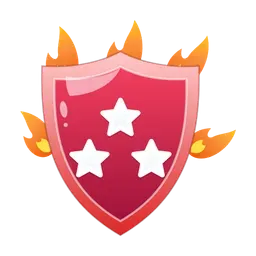
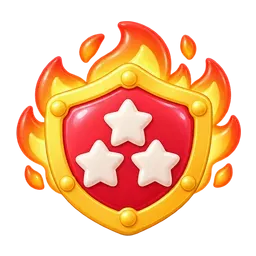
새 그림 연결: 칭호 메달 65개 · 가위바위보 팔 8장 · 몬스터 화면 아이콘 다시 그림 (v13.97.0)
- 칭호마다 자기 메달 그림(256px + 작은 그림 96px), 칭호 도감 그림 3개
- 가위바위보 팔 그림 8장, ARM_ART 켬(한 쪽 4장은 같은 창으로 잘라 팔이 안 움직임)
- 10-10 몬스터 화면 아이콘을 GPT 그림으로 교체(제가 그린 SVG 임시 그림 대체)
- fit-assets.mjs --fit-each / --union
- 검사 3개 추가, 예전 검사 3개를 새 상태에 맞춤 (release-check 1016/1016)

diff --git a/public/modules/emblems.js b/public/modules/emblems.js
@@ -70,9 +70,22 @@ const LOCK = '<svg viewBox="0 0 24 24" fill="none" stroke="currentColor" stroke-
 // V13.96 drawn title medals (asset list 11: /assets/titles/<key>.webp, 256px, and <key>-s.webp,
 // 96px, for the 34px size; 58px and up stay sharp on 3× phones with the big one). A title
 // listed here shows its picture; the rest keep the drawn
-// SVG medal, so a missing file never shows as a broken image. Empty until the sheets 11-1 …
-// 11-17 are cut.
-export const TITLE_ART = new Set([]);
+// SVG medal, so a missing file never shows as a broken image. V13.97: all 65, cut from the
+// sheets 11-1 … 11-16 (each medal fitted on its own, so a medal of one tier is the same size on
+// every sheet).
+export const TITLE_ART = new Set([
+  'rookie', 'focus', 'words100', 'streak3', 'perfect1', 'win1',
+  'words500', 'streak', 'perfect5', 'combo', 'pets4', 'win10',
+  'yacha3', 'words1000', 'streak14', 'perfect20', 'combo20', 'master',
+  'win50', 'yachaking', 'comeback', 'flawless', 'words3000', 'streak30',
+  'legend', 'pets8', 'win100', 'diamond', 'champion', 'weekly1',
+  'weekly2', 'weekly3', 'leagueking', 'pets2', 'study10', 'attend7',
+  'rps10', 'rpsjack', 'rpsgod', 'bot1', 'gift1', 'level10',
+  'level30', 'level40', 'level50', 'level60', 'study50', 'attend30',
+  'monster1', 'monster10', 'monsterhard', 'monsterlord', 'bothunter', 'skill10',
+  'exam3', 'words2000', 'study150', 'attend100', 'combo30', 'skill50',
+  'perfect50', 'yacha10', 'g_lucky', 'g_golden', 'g_god'
+]);
 export function titleEmblem(key, opts = {}) {
   const k = TITLES[key] ? key : 'rookie', t = TITLES[k];
   const locked = !!(opts.locked || opts.preview), size = opts.size || 'md';
@@ -115,6 +128,7 @@ export const ART_READY = new Set([
   'pet-legend-locked', 'empty-records', 'study-vocab', 'study-grammar', 'exam-practice', 'exam-test',
   'study-daily', 'flash-deck', 'flash-done', 'word-empty', 'badge-first100', 'badge-streak90',
   'badge-english100', 'badge-master', 'result-perfect', 'result-great', 'result-good', 'result-retry',
-  'me-petbook', 'pet-epic-locked', 'epic-egg', 'epic-badge'
+  'me-petbook', 'pet-epic-locked', 'epic-egg', 'epic-badge',
+  'titles-hero', 'title-equipped', 'title-new'
 ]);
 export const artOr = (key, fallback, cls = '') => ART_READY.has(key) ? uiArt(key, cls) : fallback;

diff --git a/public/modules/rps.js b/public/modules/rps.js
@@ -12,8 +12,8 @@
 // its fist, throws its hand, then reacts (gloats, gets dizzy, glitches at ×8, thinks on a tie).
 // V13.86 a comic panel: the screen splits along a lightning bolt (로보's half, my half) with a VS
 // burst in the middle, and two arms reach in from the screen edges, pump, and smash together.
-// Until the arm pictures are drawn (05-rps-arms.txt) the arms are drawn sleeves ending in the
-// hand medals; set ARM_ART once /assets/rps/arm-<robot|me>-<hand>.webp exist.
+// V13.97 the arm pictures (05-rps-arms, /assets/rps/arm-<robot|me>-<hand>.webp) are in; before
+// that the arms were drawn sleeves ending in the hand medals (ARM_ART = false still does that).
 import { api, esc, num, toast } from './ui.js';
 import { avatar } from './character.js';
 import { coin } from './emblems.js';
@@ -38,7 +38,7 @@ const SFX = {
 const ART = '/assets/rps/';
 const ROBOT_STILL = '/assets/pets/robot-3.webp';
 const ROBOT_POSES = ['ready', 'rock', 'scissors', 'paper', 'win', 'lose', 'shock', 'think'];
-const ARM_ART = false;
+const ARM_ART = true;
 const handArt = (hand, px = 256) => `<img src="${ART}hand-${hand}.webp" alt="" width="${px}" height="${px}" decoding="async" draggable="false">`;
 const ladder = (wins, bet) => Array.from({ length: RPS_MAX_WINS }, (_, i) => `<span class="rps-step${wins > i ? ' on' : ''}${wins === i ? ' next' : ''}"><b>×${2 ** (i + 1)}</b><small>${num(bet * 2 ** (i + 1))}</small></span>`).join('');
 const medal = (hand, cls = '') => `<span class="rps-medal art${hand ? ` h-${hand}` : ' idle'}${cls ? ` ${cls}` : ''}">${handArt(hand || 'rock')}</span>`;

diff --git a/public/sw.js b/public/sw.js
@@ -7,7 +7,7 @@
 // switches to it (and reloads) only when no exam or practice is on screen.
 
 // BUILD:START (generated by server/build-assets.mjs, do not edit by hand)
-const ASSET_HASH = '25c2b81727f21af5';
+const ASSET_HASH = '7308dedef6f5277b';
 const PRECACHE = ["/app.bundle.css","/app.js","/boot-guard.js","/icon.svg","/inapp.js","/","/manifest.webmanifest","/modules/arcade.js","/modules/battle-bot.js","/modules/battle-engine.js","/modules/battle-questions.js","/modules/battle.js","/modules/bracket-tv.js","/modules/card-levelup.js","/modules/celebrate.js","/modules/character.js","/modules/class-tv.js","/modules/core.js","/modules/emblems.js","/modules/flashcards.js","/modules/league-ui.js","/modules/lucky.js","/modules/market.js","/modules/monsters.js","/modules/pet-moments.js","/modules/petbook.js","/modules/rewards.js","/modules/rps.js","/modules/sessions.js","/modules/stocks.js","/modules/student.js","/modules/teacher.js","/modules/titles-ui.js","/modules/titles.js","/modules/tournament-ui.js","/modules/ui.js","/practice-enhancements.js","/pwa.js","/student-enhancements.js","/sumus-logo-green.svg"];
 // BUILD:END
 

diff --git a/public/v1396.css b/public/v1396.css
@@ -10,7 +10,7 @@
 .tt-emblem.is-preview .tt-art{filter:saturate(.85) opacity(.92)}
 
 /* 칭호 도감 screen pictures (shown once they are drawn, see ART_READY). */
-.tt-page-head:has(.tt-head-art){position:relative;padding-right:96px}
-.tt-page-head .tt-head-art{position:absolute;right:-4px;top:-8px;width:96px;height:96px;filter:drop-shadow(0 6px 10px rgba(30,40,60,.18))}
+.tt-page-head:has(.tt-head-art){position:relative;padding-right:120px}
+.tt-page-head .tt-head-art{position:absolute;right:-6px;top:-4px;width:128px;height:128px;object-fit:contain;filter:drop-shadow(0 6px 10px rgba(30,40,60,.18))}
 .tt-tier-tag.equipped .tt-tag-art{width:15px;height:15px;margin:-3px 3px -3px -2px;vertical-align:middle}
 .tt-moment-kicker .tt-kicker-art{width:22px;height:22px;margin:-6px 5px -5px 0;vertical-align:middle}

diff --git a/public/index.html b/public/index.html
@@ -14,7 +14,7 @@
   <link rel="apple-touch-icon" href="/icons/apple-touch-icon-180.png">
   <link rel="icon" href="/icons/icon-192.png" type="image/png" sizes="192x192">
   <link rel="manifest" href="/manifest.webmanifest">
-  <link rel="stylesheet" href="/app.bundle.css?v=13.96.0">
+  <link rel="stylesheet" href="/app.bundle.css?v=13.97.0">
 </head>
 <body>
   <script src="/inapp.js"></script>
@@ -22,7 +22,7 @@
   <div id="toast" role="status" aria-live="polite"></div>
   <div id="modal-root"></div>
   <script src="/boot-guard.js"></script>
-  <script type="module" src="/app.js?v=13.96.0"></script>
+  <script type="module" src="/app.js?v=13.97.0"></script>
   <script type="module" src="/pwa.js"></script>
 </body>
 </html>

diff --git a/CHANGES_v13.97.0.md b/CHANGES_v13.97.0.md
@@ -1,0 +1,50 @@
+# SUMUS VOCA v13.97.0 변경 사항
+
+## 새 그림 연결 (GPT 시트 20장 → 그림 81개)
+
+Drive의 시트 10-10, 11-1 ~ 11-17, 05-1 · 05-2를 잘라 앱에 넣었어요.
+
+### 칭호 메달 65개 (11번)
+
+- 칭호마다 **자기 메달 그림**이 생겼어요. 지금까지는 등급마다 같은 메달에 아이콘만 돌려 썼어요.
+  - 칭호 도감, 새 칭호 창, 랭킹·야차전·도전장의 칭호 표시 모두 바뀌어요.
+  - 테두리는 등급을 말해요: 일반 민트 동그라미 · 희귀 파란 육각형 · 영웅 보라 방패 · 전설 금빛 햇살 · 한정 무지개 리본.
+  - 잠긴 칭호는 흐리게, 미리보기는 살짝 옅게 보이는 것도 그대로예요.
+- 메달 하나가 큰 그림(256px)과 작은 그림(96px) 2장이에요. 34px 크기에서는 작은 그림을 써요.
+- **칭호 도감 그림 3개**
+  - 도감 맨 위 오른쪽: 메달 진열장
+  - 달고 있는 칭호: "장착 중" 앞의 초록 리본
+  - 새 칭호를 얻는 창: 반짝이는 빛 (NEW · 칭호 도감 / 새 칭호 획득! / NEW · 칭호 보상)
+
+### 가위바위보 팔 8장 (05번)
+
+- 가위바위보의 만화 연출에서 **그림으로 그린 팔**이 나와요. 지금까지는 소매 끝에 손 메달을 붙인 임시 모양이었어요.
+  - 로보 팔: 바위 · 가위 · 보 · 항복 깃발 (왼쪽에서 들어옴)
+  - 내 팔: 바위 · 가위 · 보 · 엄지척 (오른쪽에서 들어옴)
+- 한 쪽 팔 4장은 **같은 창**으로 잘랐어요. 그래서 손 모양이 바뀌어도 팔이 위아래·좌우로 움직이지 않아요.
+
+### 몬스터 화면 아이콘 다시 그림 (10-10)
+
+- v13.95에 넣은 아이콘은 제가 SVG로 그린 임시 그림이었어요. GPT가 그린 그림으로 바꿨어요.
+  - 몬스터 탭 아이콘, 이지 · 노말 · 하드 방패 배지
+
+## 그림 넣는 도구 (`fit-assets.mjs`)
+
+- `--fit-each`: 칸마다 따로 같은 크기로 맞춰요. 칭호 메달이 시트마다 크기가 달라 보이지 않게요.
+- `--union`: 시트 4칸을 같은 창으로 잘라요. 포즈를 바꿔 끼우는 팔 그림용이에요.
+
+## 검사
+
+- release-check 1016개 통과 (V13.97 새 검사 3개)
+  - 칭호 65개 모두 큰 그림(256px)과 작은 그림(96px)이 있다
+  - 칭호 도감 그림 3개가 있고 등록되어 있다
+  - 가위바위보 팔 8장이 있고, 한 쪽 4장은 크기가 같다
+- 예전 검사 3개를 새 상태에 맞게 고쳤어요.
+  - `ARM_ART = false` → `true`
+  - 도감 그림 등록 수 40 → 43
+  - 칭호 그림 연결 시험이 "아직 없음"을 가정하던 부분
+- check:cloudflare 통과
+- 로컬 서버에서 휴대폰 화면으로 확인했어요.
+  - 칭호 도감: 카드 62개가 모두 메달 그림으로 나오고 깨진 그림이 없음, 진열장과 "장착 중" 리본
+  - 가위바위보: 두 팔이 들어오고, 손이 바뀌어도 팔 높이가 같음, 졌을 때 연출
+- 새 칭호를 얻는 창과 한정 칭호, 몬스터 화면의 새 아이콘은 직접 띄워 보지 못했어요(검사와 같은 코드 경로로만 확인).
